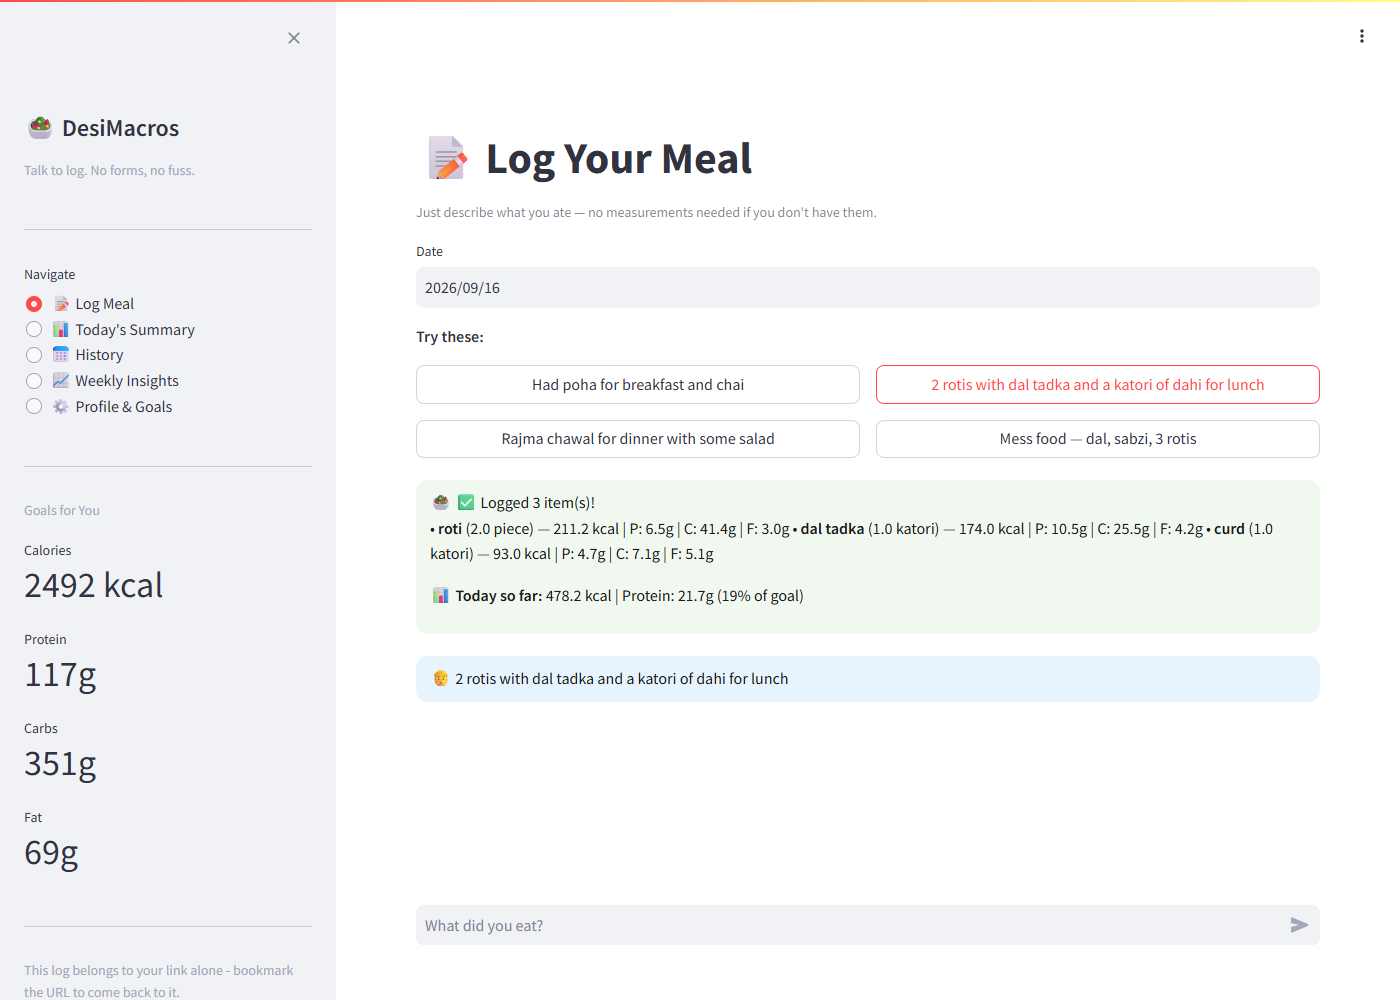
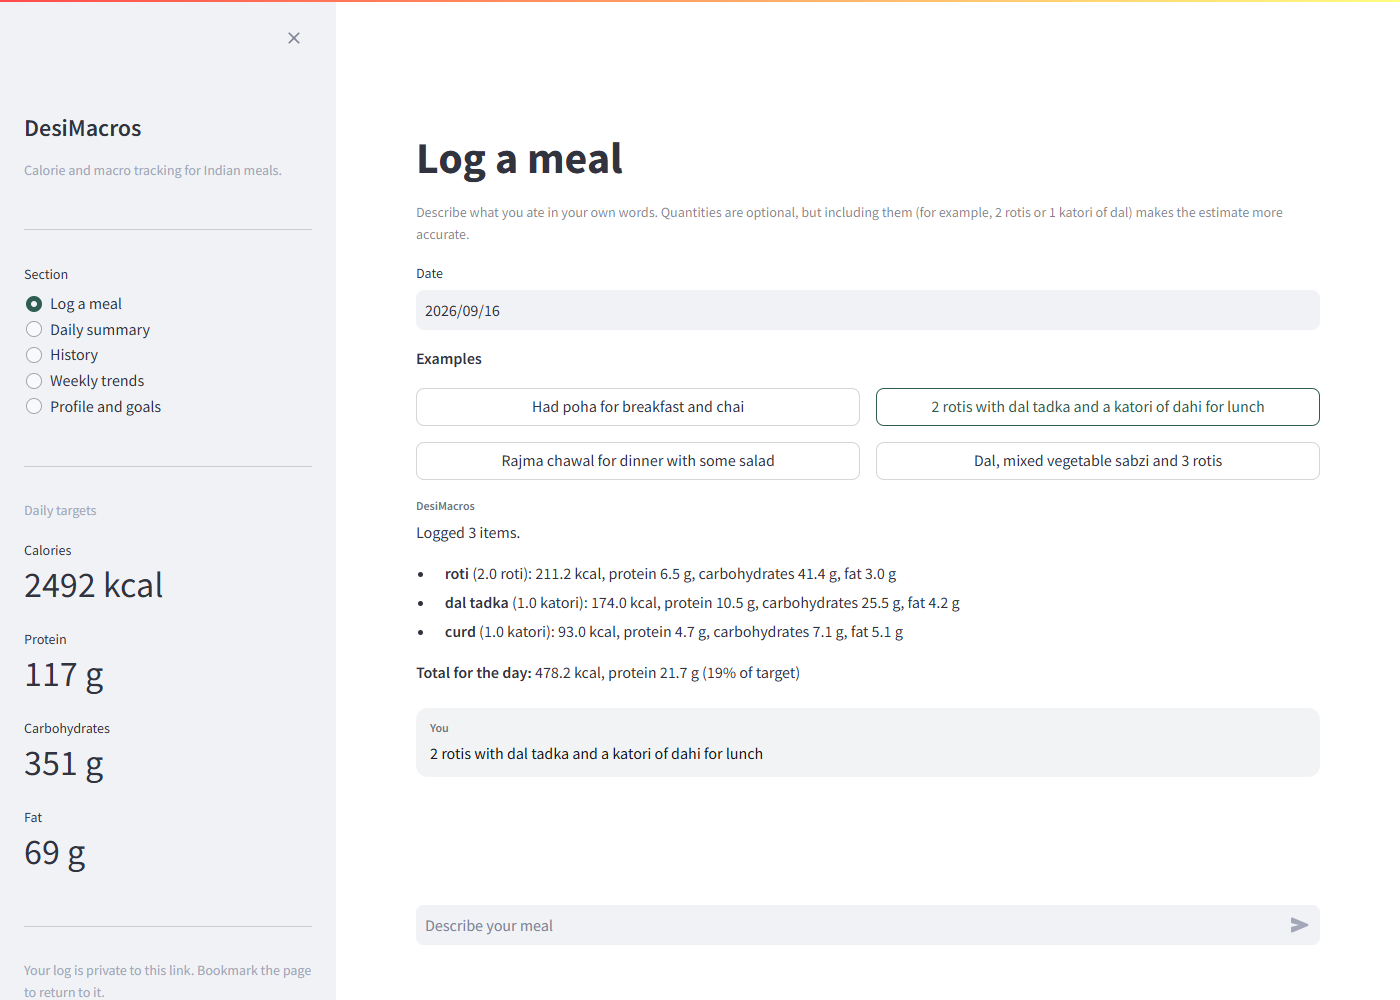
Refresh README screenshots for the new interface

diff --git a/README.md b/README.md
@@ -17,7 +17,7 @@ has no idea what a katori is.
   <img src="docs/screenshots/desi_log.png" alt="Logging a meal in plain English" width="49%">
   <img src="docs/screenshots/desi_summary.png" alt="Daily summary with macro split" width="49%">
 </p>
-<p align="center"><em>Describe a meal, get it parsed into items and macros (left). The day's totals and macro split (right).</em></p>
+<p align="center"><em>A meal described in plain words, broken into items with calories and macronutrients (left). The day's totals and calories by macronutrient (right).</em></p>
 
 ## What it does
 
